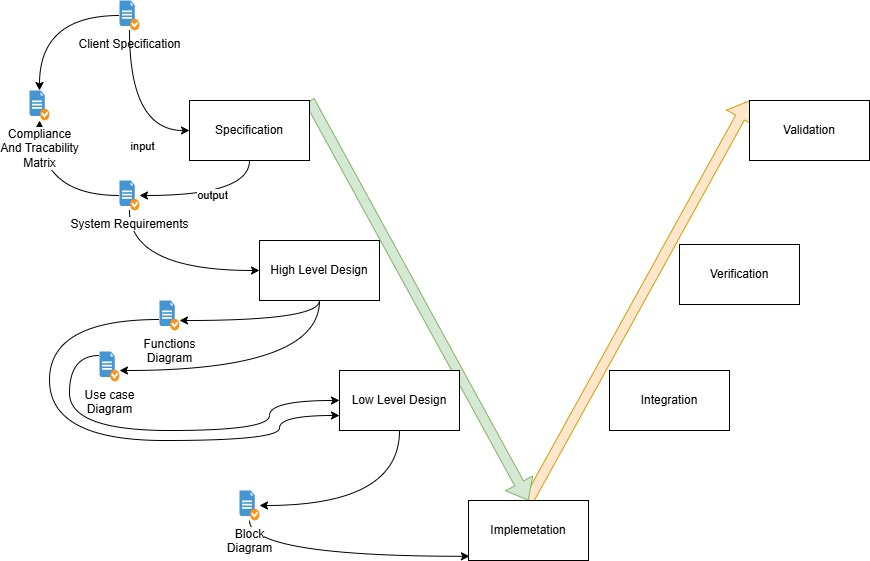
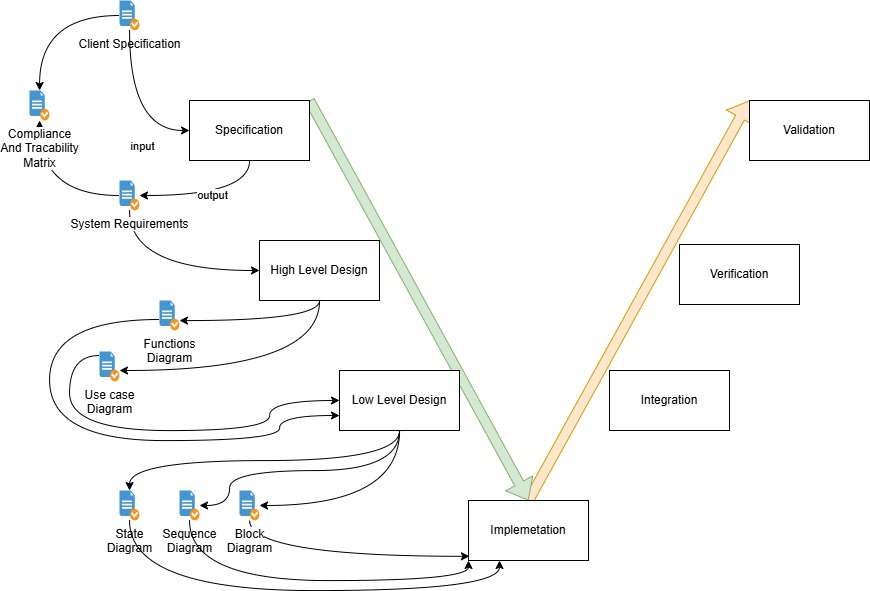
Guided Project: chapter 1: add physical diagram, improve system V Cycle.

diff --git a/03_guided_avionic_project/chapter_01/_task_3.md b/03_guided_avionic_project/chapter_01/_task_3.md
@@ -92,11 +92,37 @@ If you need more tips and hints on each one of these diagrams, you will get them
 
 <details>
   <summary>Tip 1!</summary>
-  Think of this diagram as "what does he system do?".
+  Think of this diagram as "what are the physical blocks of the system?".
+</details>
 
-- Each functionality is a square with the name in it.
-- Sub-functionalities should be inside the square of main functionalities.
-- Inputs and outputs of functionalities are shown in thick arrows.
+<details>
+  <summary>Tip 2!</summary>
+
+- The system is a big square,
+- Each physical block is a square inside the system,
+- Each square will be linked with arrows to the other physical blocks they interact with,
+- Sub blocks are drawn inside of main blocks.
+</details>
+
+<details>
+  <summary>Hint: what are the physical blocks?!</summary>
+
+- Case and enclosure (mechanical part),
+- Outside connectors,
+- Inside connector,
+- AC-DC power converter,
+- MCU (Micro Controller Unit),
+- Analog-Digital-Converter (ADC for analog inputs),
+- Non-Volatile-Memory (NVRAM),
+- Relays (to control digital outputs),
+- LEDs (Human Machine Interface),
+- PCB (Printed Circuit Board).
+</details>
+
+<details>
+  <summary>My suggestion</summary>
+
+![Physical Diagram](../../.images/03_guided_avionic_project/physical_block_diagram.jpg)
 </details>
 
 ## 4. State Diagram,

diff --git a/03_guided_avionic_project/chapter_01/README.md b/03_guided_avionic_project/chapter_01/README.md
@@ -46,4 +46,3 @@ Task 1: Review the System Requirements written by Djamal (the System Architect).
 Task 2: Create a python project to automate the requirement management and traceability. [Go to task 2](./_task_2.md)
 
 Task 3: Help the System engineer draw the System Diagrams. [Go to task 3](./_task_3.md)
-